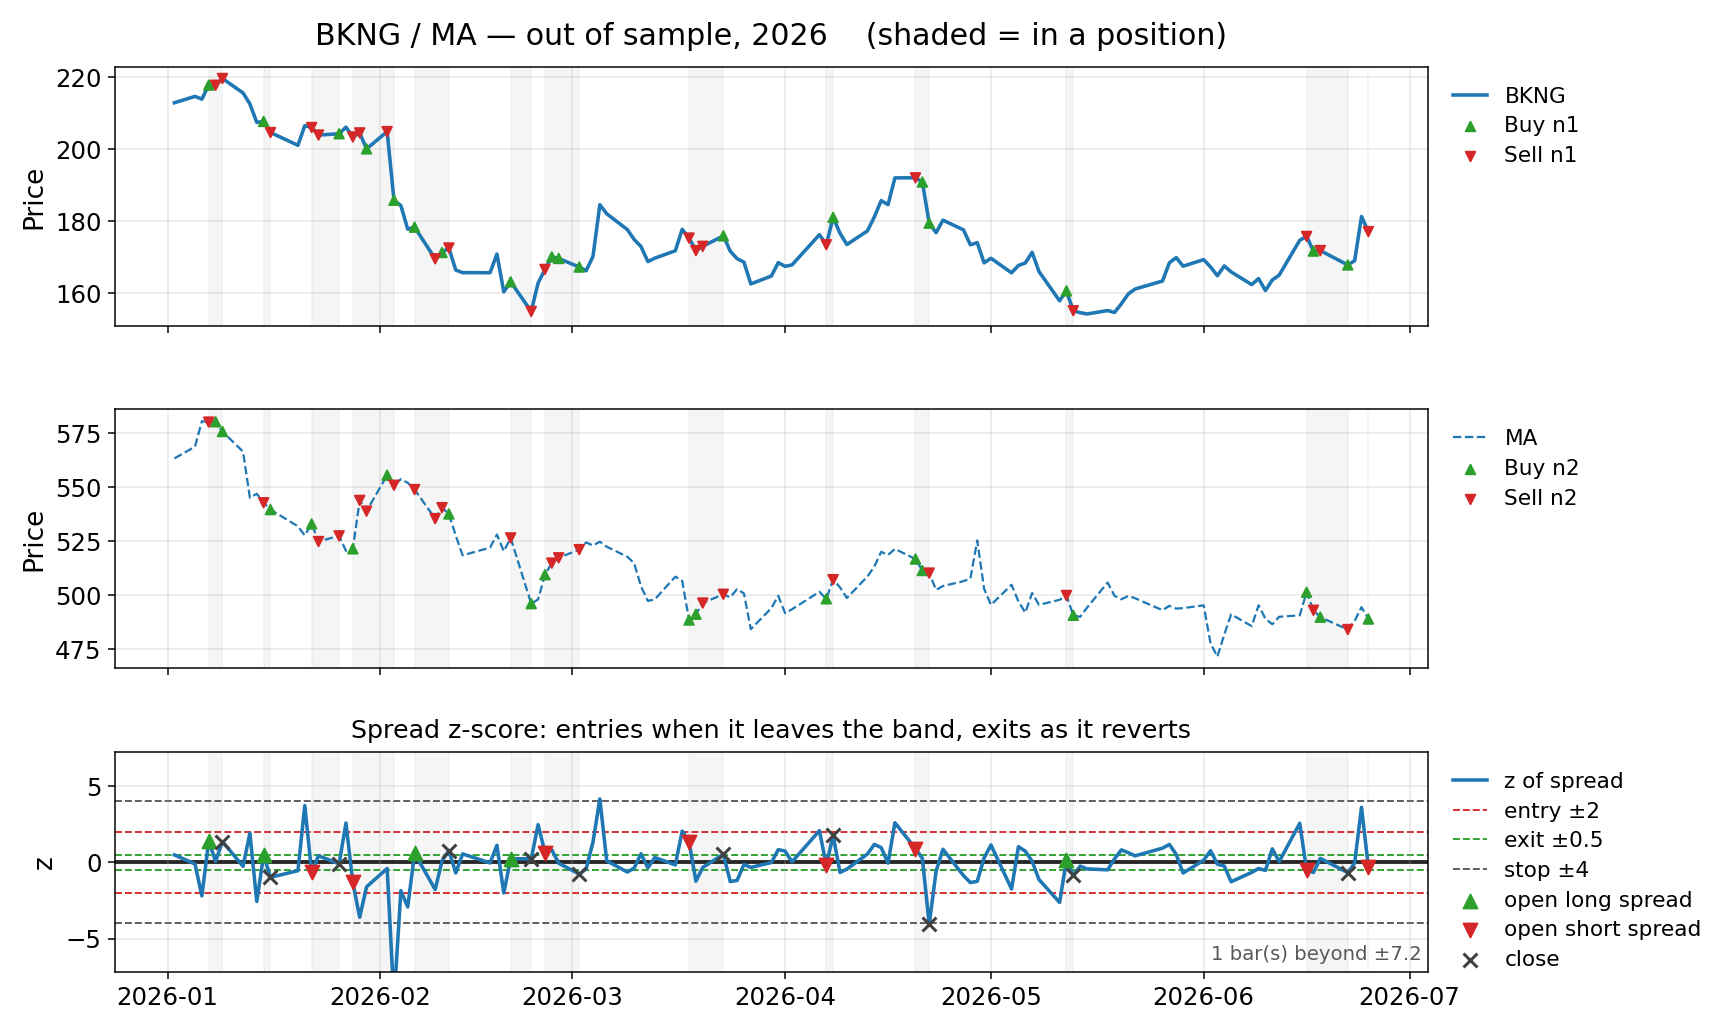
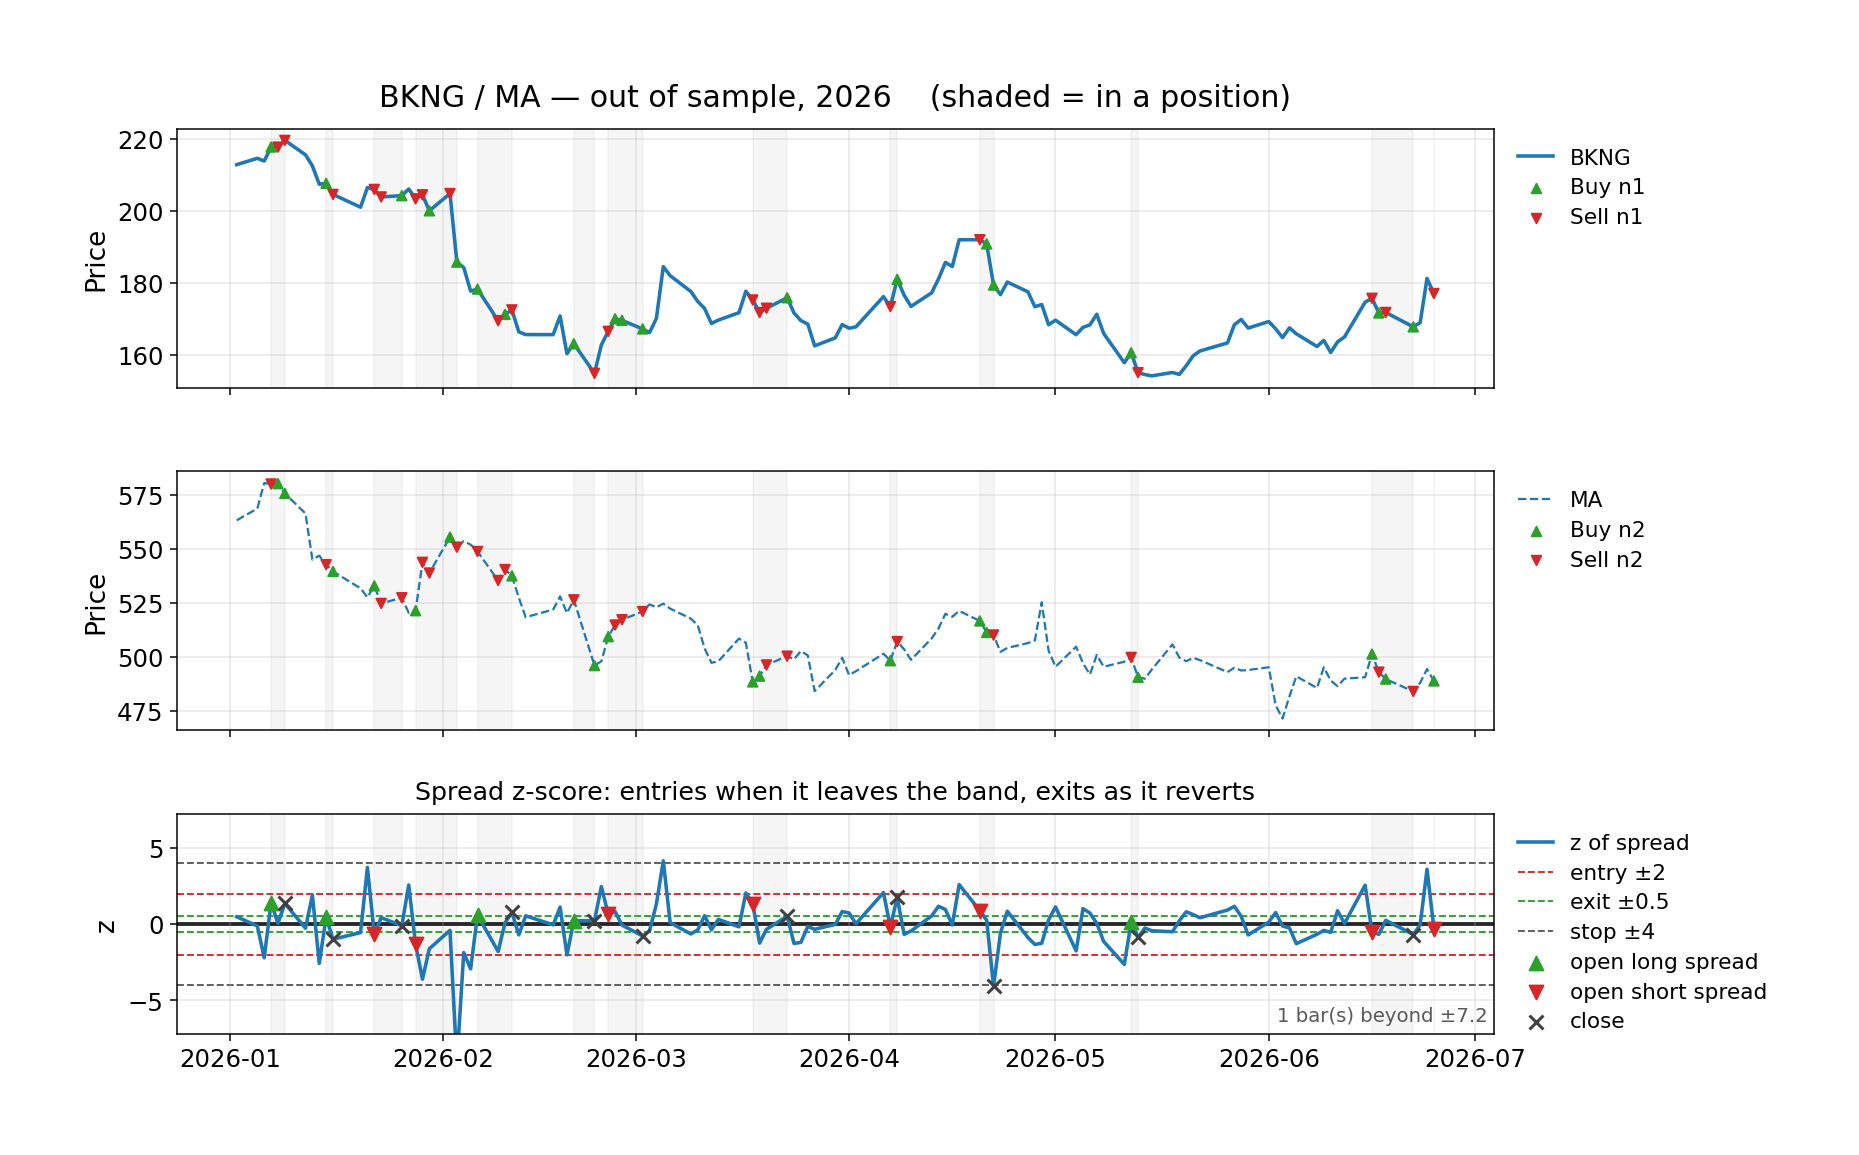
Detect leveraged and inverse funds by behaviour (issue #6, part 1)
Notebook 11 found 39% of its pair-folds and 39% of its P&L come from leveraged,
inverse and volatility ETFs, which clear every liquidity gate because nothing in
the screen asks what the instrument is. Cointegrating a 3x fund against its own
underlying is an arithmetic identity, not a relationship.

A hand-curated ticker list is the obvious fix and the wrong one: the seventeen
names notebook 11 happened to trade miss DGAZ, UGAZ, DRIP, GUSH, LABD, BOIL and
dozens more, and cannot know about funds that delisted before anyone looked.

pairs.market_data.instruments detects them by behaviour instead. A leveraged
fund is a near-exact scalar multiple of something else, and it is the magnified
side of that relationship: |corr| >= 0.95 with its closest relative and
|beta| >= 1.15. On the day lake this flags 1.2-1.6% of the universe per window
and catches 12-15 of the seventeen known names, with no plain index fund among
the false positives -- SPY, QQQ, IWM, GDX, SOXX, XBI and EEM all stay ordinary.

Two design decisions the tests pin down, both found by getting them wrong first:

- Only the magnified side is flagged. The relation is symmetric, so a rule that
  merely asks whether beta is far from 1 flags IDX as a "scaled version" of its
  own 3x fund. Gating GDX, SOXX and QLD out of the universe would be far worse
  than the disease.
- The comparison is against the single closest relative, not every near-relative.
[…]

diff --git a/pairs/market_data/instruments.py b/pairs/market_data/instruments.py
@@ -1,0 +1,132 @@
+"""Detect instruments that are a mechanical function of another listed instrument.
+
+Notebook 11 found that 39% of its selected pair-folds — and 39% of its P&L — involve a leveraged,
+inverse or volatility ETF. Those instruments clear every liquidity gate because nothing in the
+screen asks what the instrument *is*: a 3× fund on a liquid index is itself liquid, priced above
+$5 and volatile. Cointegrating one against its own underlying, or against another fund on the same
+index, is an arithmetic identity rather than an economic relationship.
+
+The obvious fix — a hand-curated ticker list — is brittle, incomplete and survivorship-biased. A
+list of the seventeen names notebook 11 happened to trade misses DGAZ, UGAZ, DRIP, GUSH, LABD,
+BOIL and dozens of others, and cannot know about funds that delisted before anyone looked.
+
+So this detects them by behaviour instead. A leveraged or inverse fund is, by construction, a
+near-exact scalar multiple of some other listed thing, and it is the *magnified* side of that
+relationship:
+
+    exists j with |corr(r_i, r_j)| >= rho_min  and  |beta_ij| >= 1 + beta_tol
+
+The direction matters. If BULL3 is 3x IDX then IDX is one-third of BULL3, so a rule that merely
+asks whether beta is far from 1 flags the underlying as well — and gating GDX, SOXX or QLD out of
+the universe because a leveraged sibling exists would remove far more than the funds themselves.
+Only |beta| >= 1 + tol counts, never |beta| <= 1 - tol.
+
+The test finds SOXS at −2.98x SOXX, JDST at −2.96x GDXJ, NUGT at +2.97x GDX, LABU at +3.02x XBI
+and TQQQ at 1.49x QLD (a 3x against a 2x on the same index). Crucially it needs no benchmark: the
+gold-miner funds have an R-squared of 0.005 against the S&P, so any single-benchmark regression
+misses them entirely. It is checked against *every* near-relative rather than only the closest,
+and it is measured against the single closest relative: scanning every near-relative instead
+flags SPY and QQQ, because in a correlated cluster the higher-volatility members always look
+magnified relative to the lowest-volatility one.
+
+Two known limitations, both visible rather than hidden:
+
+* a fund whose closest relative is another fund of *different* leverage escapes the scaled arm
+  from the wrong side — QLD (2×) sits at beta 0.67 against TQQQ (3×), which is a shrink rather
+  than a magnification. A fund whose closest relative carries the *same* leverage escapes too:
+  TZA is beta 0.996 against SRTY, both −3× Russell. Both cases surface in the ``duplicate`` arm.
+  Partial coverage with no false positives is worth more here than full coverage that would gut
+  the universe.
+* SVXY changed from −1× to −0.5× in February 2018, so across that boundary it is not a constant
+  multiple of anything and no behavioural test can see it.
+
+The ``duplicate`` arm (|corr| high, beta ~ 1) is reported separately and gated separately. It is
+dominated by index funds tracking the same index — AGG and BND, ACWI and VT — which are equally
+mechanical but are a different question from notebook 11's, and removing them would change the
+universe far more than the leveraged funds do.
+"""
+from __future__ import annotations
+
+from dataclasses import dataclass
+from typing import Iterable, Optional
+
+import numpy as np
+import pandas as pd
+
+__all__ = ["scaled_instrument_report", "detect_scaled_instruments"]
+
+
+@dataclass(frozen=True)
+class Thresholds:
+    rho_min: float = 0.95        # correlation with the closest relative
+    beta_tol: float = 0.15       # how far from 1.0 the scaling must be
+    dup_rho_min: float = 0.98    # the near-duplicate arm
+    min_obs: int = 120           # bars required before a verdict is offered
+
+
+def scaled_instrument_report(prices: pd.DataFrame, *,
+                             thresholds: Thresholds = Thresholds(),
+                             tickers: Optional[Iterable[str]] = None) -> pd.DataFrame:
+    """Per-ticker verdict over one window of closing prices.
+
+    ``prices`` is wide: a DatetimeIndex and one column per ticker. Only columns complete over the
+    window are judged, because a correlation computed on different day-counts is not comparable
+    across the candidates and this test turns on the top of the correlation distribution.
+
+    Returns a frame indexed by ticker with the closest relative, the correlation and implied beta
+    against it, annualised volatility, and a ``kind`` of ``scaled`` / ``duplicate`` / ``ordinary``.
+    """
+    if tickers is not None:
+        prices = prices[[t for t in tickers if t in prices.columns]]
+    r = np.log(prices.astype(float)).diff().iloc[1:]
+    r = r.loc[:, r.notna().all()]
+    r = r.loc[:, r.std() > 1e-12]
+    if r.shape[1] < 2 or len(r) < thresholds.min_obs:
+        return pd.DataFrame(columns=["partner", "rho", "beta", "ann_vol", "kind"]).rename_axis("ticker")
+
+    names = list(r.columns)
+    X = r.to_numpy(dtype=float)
+    X = (X - X.mean(0)) / X.std(0)
+    C = (X.T @ X) / len(X)
+    np.fill_diagonal(C, 0.0)
+
+    sd = r.std().to_numpy()
+    B = C * (sd[:, None] / sd[None, :])          # beta of i on j, for every pair
+
+    # The relationship is symmetric: if BULL3 is 3x IDX then IDX is one-third of BULL3, and a rule
+    # that only asks "is beta far from 1" flags the *underlying* too. Gating GDX, SOXX or QLD out
+    # of the universe because a leveraged sibling exists would be much worse than the disease. So
+    # only the magnified side is flagged — |beta| >= 1 + tol, never <= 1 - tol.
+    # Compare against the single *closest* relative, not every near-relative. Scanning them all
+    # and taking the largest |beta| flags SPY and QQQ, because in any correlated cluster the
+    # higher-volatility members look magnified relative to the lowest — SPY against a min-vol S&P
+    # fund clears 1.15 easily. The closest relative of a genuine fund is its own underlying or a
+    # sibling on the same index, which is exactly the comparison that carries the information.
+    j = np.abs(C).argmax(axis=1)
+    rho = C[np.arange(len(names)), j]
+    beta = B[np.arange(len(names)), j]
+
+    scaled = (np.abs(rho) >= thresholds.rho_min) & (np.abs(beta) >= 1.0 + thresholds.beta_tol)
+    out = pd.DataFrame({"partner": [names[a] for a in j], "rho": rho, "beta": beta,
+                        "ann_vol": sd * np.sqrt(252),
+                        "scaled_vs": np.where(scaled, [names[a] for a in j], ""),
+                        "scaled_beta": np.where(scaled, beta, np.nan)},
+                       index=pd.Index(names, name="ticker"))
+    dup = (~scaled) & (np.abs(rho) >= thresholds.dup_rho_min) & \
+          (np.abs(beta - 1.0) < thresholds.beta_tol)
+    out["kind"] = np.where(scaled, "scaled", np.where(dup, "duplicate", "ordinary"))
+    return out
+
+
+def detect_scaled_instruments(prices: pd.DataFrame, *,
+                              thresholds: Thresholds = Thresholds(),
+                              include_duplicates: bool = False,
+                              tickers: Optional[Iterable[str]] = None) -> set[str]:
+    """The set to hand to ``liquidity_screen(exclude=...)``.
+
+    By default only the ``scaled`` arm — leveraged and inverse funds, which is notebook 11's
+    finding. Pass ``include_duplicates=True`` to also drop same-index twins.
+    """
+    rep = scaled_instrument_report(prices, thresholds=thresholds, tickers=tickers)
+    kinds = {"scaled", "duplicate"} if include_duplicates else {"scaled"}
+    return set(rep.index[rep["kind"].isin(kinds)])

diff --git a/tests/test_instruments.py b/tests/test_instruments.py
@@ -1,0 +1,111 @@
+"""Tests for the leveraged/inverse instrument detector (open issue #6)."""
+import numpy as np
+import pandas as pd
+import pytest
+
+from pairs.market_data.instruments import (Thresholds, detect_scaled_instruments,
+                                           scaled_instrument_report)
+
+
+@pytest.fixture
+def synthetic():
+    """An index, two ordinary stocks, a 3x fund, a -2x fund and a same-index twin."""
+    rng = np.random.default_rng(0)
+    n = 500
+    idx = pd.date_range("2020-01-01", periods=n, freq="B")
+    mkt = rng.normal(0, 0.01, n)
+    sector = rng.normal(0, 0.012, n)
+    # Funds carry tracking error, which is what makes each one closest to its *underlying*
+    # rather than to a sibling fund: a fund-to-fund correlation compounds two tracking errors.
+    # Exact multiples would tie every correlation at 1 and make argmax arbitrary.
+    frames = {
+        "IDX":  mkt,
+        "TWIN": mkt + rng.normal(0, 0.0004, n),                 # another fund on the same index
+        "BULL3": 3.0 * mkt + rng.normal(0, 0.0006, n),          # 3x leveraged
+        "BEAR2": -2.0 * mkt + rng.normal(0, 0.0006, n),         # -2x inverse
+        "SECT": sector,
+        "AAA":  0.9 * mkt + rng.normal(0, 0.013, n),            # ordinary stock
+        "BBB":  0.4 * sector + rng.normal(0, 0.015, n),
+    }
+    return pd.DataFrame({k: 100 * np.exp(np.cumsum(v)) for k, v in frames.items()}, index=idx)
+
+
+def test_finds_the_leveraged_and_inverse_funds(synthetic):
+    rep = scaled_instrument_report(synthetic)
+    assert rep.loc["BULL3", "kind"] == "scaled"
+    assert rep.loc["BEAR2", "kind"] == "scaled"
+    # `beta` is against the closest relative (BEAR2's is BULL3); `scaled_beta` is against the
+    # thing it magnifies, which is what the verdict turns on.
+    assert abs(rep.loc["BULL3", "scaled_beta"]) == pytest.approx(3.0, abs=0.1)
+    assert abs(rep.loc["BEAR2", "scaled_beta"]) == pytest.approx(2.0, abs=0.1)
+
+
+def test_ordinary_stocks_are_not_flagged(synthetic):
+    rep = scaled_instrument_report(synthetic)
+    assert rep.loc["AAA", "kind"] == "ordinary"
+    assert rep.loc["BBB", "kind"] == "ordinary"
+
+
+def test_same_index_twins_are_duplicates_not_scaled(synthetic):
+    """A twin is mechanical too, but it is a different question and gated separately."""
+    rep = scaled_instrument_report(synthetic)
+    assert rep.loc["TWIN", "kind"] == "duplicate"
+    assert abs(rep.loc["TWIN", "beta"] - 1.0) < 0.15
+
+
+def test_default_gate_takes_scaled_only(synthetic):
+    assert detect_scaled_instruments(synthetic) == {"BULL3", "BEAR2"}
+    both = detect_scaled_instruments(synthetic, include_duplicates=True)
+    assert {"BULL3", "BEAR2"} < both and "TWIN" in both
+    assert "AAA" not in both
+
+
+def test_no_benchmark_is_needed(synthetic):
+    """The gold-miner funds have R^2 ~ 0.005 against the S&P, so a single-benchmark test misses
+    them. Removing the market entirely must not stop the sector-levered fund being found."""
+    rng = np.random.default_rng(1)
+    n = 400
+    idx = pd.date_range("2020-01-01", periods=n, freq="B")
+    gold = rng.normal(0, 0.015, n)
+    df = pd.DataFrame({
+        "GDX": 100 * np.exp(np.cumsum(gold)),
+        "NUGT3": 100 * np.exp(np.cumsum(3 * gold)),
+        "SPY": 100 * np.exp(np.cumsum(rng.normal(0, 0.009, n))),
+    }, index=idx)
+    assert detect_scaled_instruments(df) == {"NUGT3"}, "the fund, not its underlying"
+
+
+def test_the_underlying_is_never_gated_only_the_magnified_side(synthetic):
+    """IDX is one-third of BULL3, but gating index funds out because a 3x sibling exists would
+    remove far more of the universe than the leveraged funds themselves."""
+    rep = scaled_instrument_report(synthetic)
+    assert rep.loc["IDX", "kind"] != "scaled"
+    assert rep.loc["BULL3", "scaled_vs"] == "IDX"
+    assert abs(rep.loc["BULL3", "scaled_beta"]) == pytest.approx(3.0, abs=0.1)
+
+
+def test_thresholds_are_honoured(synthetic):
+    strict = Thresholds(rho_min=0.999999, beta_tol=0.15)
+    assert detect_scaled_instruments(synthetic, thresholds=strict) <= {"BULL3", "BEAR2"}
+    loose = Thresholds(rho_min=0.95, beta_tol=5.0)      # nothing is 5x away from unit beta here
+    assert detect_scaled_instruments(synthetic, thresholds=loose) == set()
+
+
+def test_incomplete_series_are_skipped_not_guessed(synthetic):
+    df = synthetic.copy()
+    df.loc[df.index[:50], "BULL3"] = np.nan
+    rep = scaled_instrument_report(df)
+    assert "BULL3" not in rep.index
+    assert "BEAR2" in rep.index
+
+
+def test_too_short_a_window_returns_empty_rather_than_noise(synthetic):
+    rep = scaled_instrument_report(synthetic.iloc[:40])
+    assert rep.empty and list(rep.columns) == ["partner", "rho", "beta", "ann_vol", "kind"]
+
+
+def test_a_constant_series_cannot_break_it(synthetic):
+    df = synthetic.assign(FLAT=100.0)
+    rep = scaled_instrument_report(df)
+    assert "FLAT" not in rep.index
+    assert rep.loc["BULL3", "kind"] == "scaled"

diff --git a/pairs/__init__.py b/pairs/__init__.py
@@ -46,6 +46,8 @@ __all__ = [
     "detect_day_lake_layout",
     "recover_dividends",
     "liquidity_screen",
+    "scaled_instrument_report",
+    "detect_scaled_instruments",
     # universes
     "load_universe",
     "list_universes",
@@ -121,6 +123,8 @@ _LAZY_MAP = {
     "detect_day_lake_layout": ("pairs.market_data.daily_bars", "detect_day_lake_layout"),
     "recover_dividends": ("pairs.market_data.daily_bars", "recover_dividends"),
     "liquidity_screen": ("pairs.market_data.daily_bars", "liquidity_screen"),
+    "scaled_instrument_report": ("pairs.market_data.instruments", "scaled_instrument_report"),
+    "detect_scaled_instruments": ("pairs.market_data.instruments", "detect_scaled_instruments"),
     # universes
     "load_universe": ("pairs.universes", "load_universe"),
     "list_universes": ("pairs.universes", "list_universes"),
@@ -207,6 +211,7 @@ if TYPE_CHECKING:  # pragma: no cover
     from .market_data import load_prices, load_polygon_lake, download_openbb
     from .market_data.minute_bars import load_minute_bars, detect_lake_layout, nyse_early_closes, summarize_sessions
     from .market_data.daily_bars import load_daily_bars, detect_day_lake_layout, recover_dividends, liquidity_screen
+    from .market_data.instruments import scaled_instrument_report, detect_scaled_instruments
     from .universes import load_universe, list_universes
     from .plotting.pair_trades import plot_pair_legs_with_trades
     from .stats.cointegration import (

diff --git a/figures/make_readme_figures.py b/figures/make_readme_figures.py
@@ -116,11 +116,14 @@ def figure_signals(df_pair_te, sig, z_window):
                       fontsize=13.5, pad=8)
     for t in axes[2].texts:
         t.set_fontsize(10.5)
-    fig.subplots_adjust(left=0.062, right=0.788, top=0.935, bottom=0.075, hspace=0.34)
-    # bbox_inches="tight" grows the canvas to enclose the legends, which sit outside the axes;
-    # without it the widest label ("open short spread") is clipped at the right edge.
+    # bbox_inches="tight" trims the canvas to the content and then adds pad_inches, so the clear
+    # margin on the right is set by the padding alone -- shrinking the axes with `right` only
+    # squeezes the plots and moves the legends with them. The z panel's "open short spread" is the
+    # widest label in the figure and therefore the one that decides how tight the edge looks, so
+    # the padding is generous rather than cosmetic.
+    fig.subplots_adjust(left=0.062, right=0.79, top=0.935, bottom=0.075, hspace=0.34)
     fig.savefig(OUT / "signals.png", dpi=135, facecolor="white", bbox_inches="tight",
-                pad_inches=0.16)
+                pad_inches=0.62)
     plt.close(fig)
 
 
